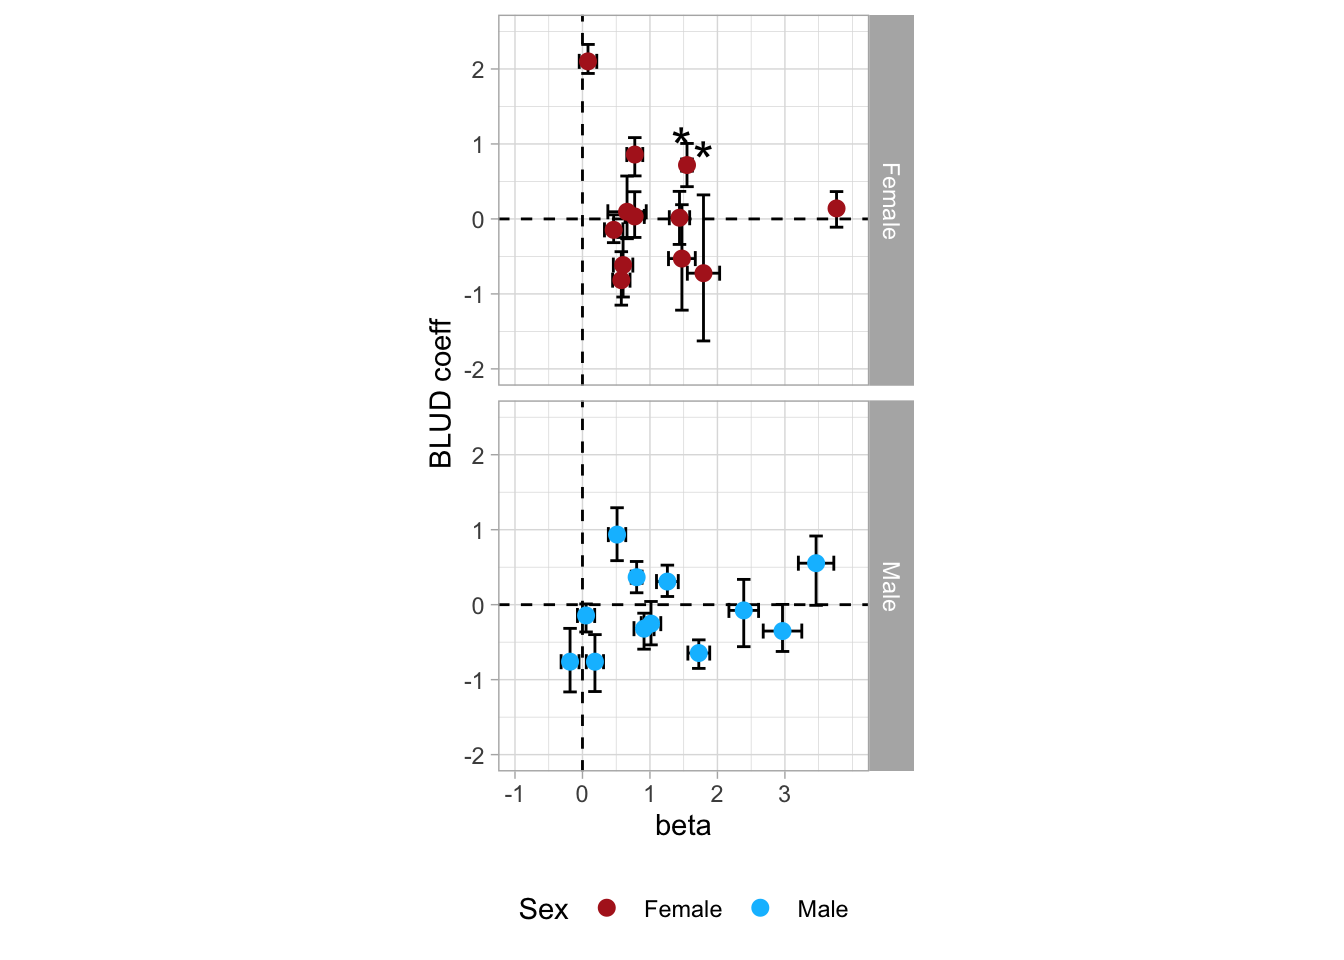
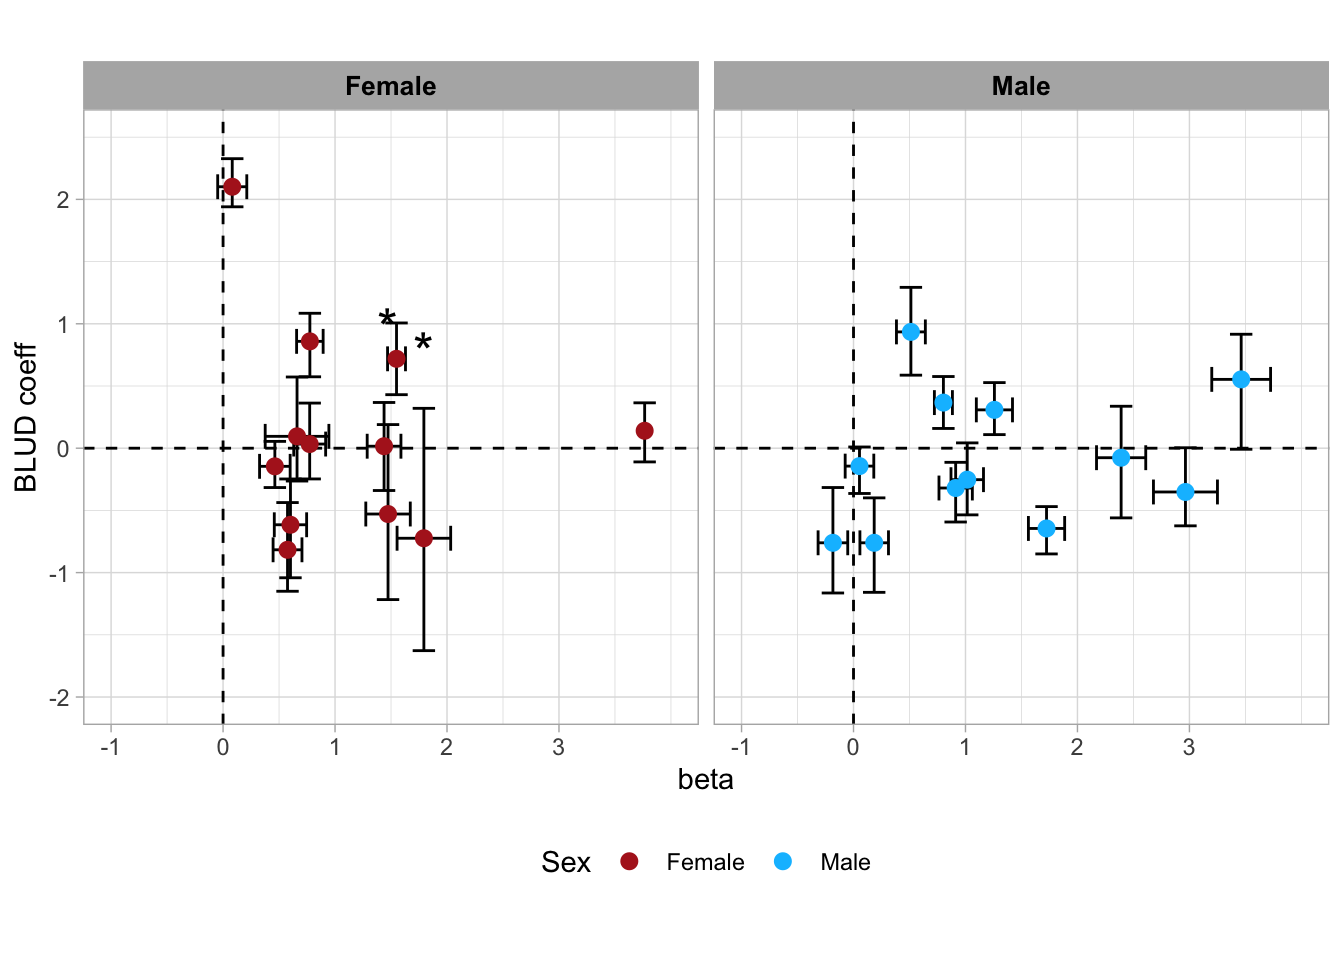
Build site.

diff --git a/docs/Coeffcients.html b/docs/Coeffcients.html
@@ -517,16 +517,16 @@ This reproducible <a href="http://rmarkdown.rstudio.com">R Markdown</a> analysis
 <div class="panel panel-default">
 <div class="panel-heading">
 <p class="panel-title">
-<a data-toggle="collapse" data-parent="#workflowr-checks" href="#strongRepositoryversionstrongahrefhttpsgithubcommcorbaldgrplifespanimmunitytreeebb4b09666f95642bb84c2f5f14cb4eae6bf253ftargetblankebb4b09a"> <span class="glyphicon glyphicon-ok text-success" aria-hidden="true"></span> <strong>Repository version:</strong> <a href="https://github.com/mcorbal/dgrp_lifespan_immunity/tree/ebb4b09666f95642bb84c2f5f14cb4eae6bf253f" target="_blank">ebb4b09</a> </a>
+<a data-toggle="collapse" data-parent="#workflowr-checks" href="#strongRepositoryversionstrongahrefhttpsgithubcommcorbaldgrplifespanimmunitytreeccc7e33447cfac020bcf3e2fc5403c5509033197targetblankccc7e33a"> <span class="glyphicon glyphicon-ok text-success" aria-hidden="true"></span> <strong>Repository version:</strong> <a href="https://github.com/mcorbal/dgrp_lifespan_immunity/tree/ccc7e33447cfac020bcf3e2fc5403c5509033197" target="_blank">ccc7e33</a> </a>
 </p>
 </div>
[2 lines of base64/hex data omitted]
 <div class="panel-body">
 <p>
 Great! You are using Git for version control. Tracking code development and connecting the code version to the results is critical for reproducibility.
 </p>
 <p>
-The results in this page were generated with repository version <a href="https://github.com/mcorbal/dgrp_lifespan_immunity/tree/ebb4b09666f95642bb84c2f5f14cb4eae6bf253f" target="_blank">ebb4b09</a>. See the <em>Past versions</em> tab to see a history of the changes made to the R Markdown and HTML files.
+The results in this page were generated with repository version <a href="https://github.com/mcorbal/dgrp_lifespan_immunity/tree/ccc7e33447cfac020bcf3e2fc5403c5509033197" target="_blank">ccc7e33</a>. See the <em>Past versions</em> tab to see a history of the changes made to the R Markdown and HTML files.
 </p>
 <p>
 Note that you need to be careful to ensure that all relevant files for the analysis have been committed to Git prior to generating the results (you can use <code>wflow_publish</code> or <code>wflow_git_commit</code>). workflowr only checks the R Markdown file, but you know if there are other scripts or data files that it depends on. Below is the status of the Git repository when the results were generated:
@@ -703,6 +703,40 @@ Message
 </tr>
 </thead>
 <tbody>
+<tr>
+<td>
+Rmd
+</td>
+<td>
+<a href="https://github.com/mcorbal/dgrp_lifespan_immunity/blob/ccc7e33447cfac020bcf3e2fc5403c5509033197/analysis/Coeffcients.Rmd" target="_blank">ccc7e33</a>
+</td>
+<td>
+mcorbal
+</td>
+<td>
+2021-08-10
+</td>
+<td>
+More updates on axes
+</td>
+</tr>
+<tr>
+<td>
+html
+</td>
+<td>
+<a href="https://rawcdn.githack.com/mcorbal/dgrp_lifespan_immunity/4a0a9aff34a4393289c5fb25c19b5f5780dac528/docs/Coeffcients.html" target="_blank">4a0a9af</a>
+</td>
+<td>
+mcorbal
+</td>
+<td>
+2021-08-10
+</td>
+<td>
+Build site.
+</td>
+</tr>
 <tr>
 <td>
 Rmd
@@ -1342,6 +1376,17 @@ Date
 <tbody>
 <tr>
 <td>
+<a href="https://github.com/mcorbal/dgrp_lifespan_immunity/blob/4a0a9aff34a4393289c5fb25c19b5f5780dac528/docs/figure/Coeffcients.Rmd/coxph analysis Sex-1.png" target="_blank">4a0a9af</a>
+</td>
+<td>
+mcorbal
+</td>
+<td>
+2021-08-10
+</td>
+</tr>
+<tr>
+<td>
 <a href="https://github.com/mcorbal/dgrp_lifespan_immunity/blob/130ff5e495fb5f5c040a67f96bfbe34bb8197533/docs/figure/Coeffcients.Rmd/coxph analysis Sex-1.png" target="_blank">130ff5e</a>
 </td>
 <td>
@@ -1430,6 +1475,17 @@ Date
 </tr>
 </thead>
 <tbody>
+<tr>
+<td>
+<a href="https://github.com/mcorbal/dgrp_lifespan_immunity/blob/4a0a9aff34a4393289c5fb25c19b5f5780dac528/docs/figure/Coeffcients.Rmd/coxph analysis Sex male_biased-1.png" target="_blank">4a0a9af</a>
+</td>
+<td>
+mcorbal
+</td>
+<td>
+2021-08-10
+</td>
+</tr>
 <tr>
 <td>
 <a href="https://github.com/mcorbal/dgrp_lifespan_immunity/blob/130ff5e495fb5f5c040a67f96bfbe34bb8197533/docs/figure/Coeffcients.Rmd/coxph analysis Sex male_biased-1.png" target="_blank">130ff5e</a>
@@ -1563,8 +1619,8 @@ pND &lt;-
    scale_y_continuous(&quot;BLUD coeff&quot;,
                       limits = c(-1.5,2.5),
                       breaks=c(seq(-1.5,1.5,by=1)))+
-   scale_x_continuous(limits = c(-1,4),
-                      breaks=c(seq(-1,4,by=1)))+
+   scale_x_continuous(limits = c(-1,1),
+                      breaks=c(seq(-1,1,by=1)))+
    facet_nested(~Lifespan_actual+Line)+
    geom_point(aes(colour = Sex), size =2.5) +
    scale_colour_manual(values = c(&quot;firebrick&quot;, &quot;deepskyblue1&quot;))+
@@ -1613,6 +1669,17 @@ Date
 <tbody>
 <tr>
 <td>
+<a href="https://github.com/mcorbal/dgrp_lifespan_immunity/blob/4a0a9aff34a4393289c5fb25c19b5f5780dac528/docs/figure/Coeffcients.Rmd/Cox analysis Age-1.png" target="_blank">4a0a9af</a>
+</td>
+<td>
+mcorbal
+</td>
+<td>
+2021-08-10
+</td>
+</tr>
+<tr>
+<td>
 <a href="https://github.com/mcorbal/dgrp_lifespan_immunity/blob/130ff5e495fb5f5c040a67f96bfbe34bb8197533/docs/figure/Coeffcients.Rmd/Cox analysis Age-1.png" target="_blank">130ff5e</a>
 </td>
 <td>
@@ -1628,16 +1695,15 @@ mcorbal
 </div>
 <pre class="r"><code>pMB &lt;- grid.arrange(
   ggplot(subset(Hazard_Blud, Lifespan_actual == &quot;Male_biased&quot; &amp;
-                   Line %in% c(&quot;732&quot;, &quot;821&quot;, &quot;897&quot;, &quot;907&quot;)), aes(beta, PLUD), scale=&quot;globalminmax&quot;) +
-  geom_vline(xintercept = 0, linetype = 2) +
+                   Line %in% c(&quot;732&quot;, &quot;821&quot;, &quot;59&quot;, &quot;386&quot;)), aes(beta, PLUD), scale=&quot;globalminmax&quot;) +
   geom_hline(yintercept = 0, linetype = 2) +
    geom_errorbarh(aes(xmin = beta-se, xmax = beta+se),height =0.2)+
    geom_errorbar(aes(ymax = PLUD_CI_sup, ymin = PLUD_CI_inf),width=0.2)+
    scale_y_continuous(&quot;BLUD coeff&quot;,
-                      limits = c(-2,2.5),
-                      breaks=c(seq(-2,2.5,by=1)))+
-   scale_x_continuous(limits = c(-1,4),
-                      breaks=c(seq(-1,3,by=1)))+
+                      limits = c(-1,1.5),
+                      breaks=c(seq(-1,1,by=1)))+
+   scale_x_continuous(limits = c(0,2),
+                      breaks=c(seq(0,2,by=1)))+
    facet_nested(~Lifespan_actual+Line)+
    geom_point(aes(colour = Sex), size =2.5) +
    scale_colour_manual(values = c(&quot;firebrick&quot;, &quot;deepskyblue1&quot;))+
@@ -1649,16 +1715,15 @@ mcorbal
          legend.position = &quot;none&quot;,
          legend.text = element_text(size = 12, face = &quot;bold&quot;)),
   ggplot(subset(Hazard_Blud, Lifespan_actual == &quot;Male_biased&quot; &amp;
-                   Line %in% c(&quot;59&quot;, &quot;386&quot;, &quot;517&quot;, &quot;730&quot;)), aes(beta, PLUD), scale=&quot;globalminmax&quot;) +
-  geom_vline(xintercept = 0, linetype = 2) +
+                   Line %in% c(&quot;897&quot;, &quot;907&quot;, &quot;517&quot;, &quot;730&quot;)), aes(beta, PLUD), scale=&quot;globalminmax&quot;) +
   geom_hline(yintercept = 0, linetype = 2) +
    geom_errorbarh(aes(xmin = beta-se, xmax = beta+se),height =0.2)+
    geom_errorbar(aes(ymax = PLUD_CI_sup, ymin = PLUD_CI_inf),width=0.2)+
    scale_y_continuous(&quot;BLUD coeff&quot;,
-                      limits = c(-2,2.5),
-                      breaks=c(seq(-2,2.5,by=1)))+
-   scale_x_continuous(limits = c(-1,4),
-                      breaks=c(seq(-1,3,by=1)))+
+                      limits = c(-2,1.5),
+                      breaks=c(seq(-2,1,by=1)))+
+   scale_x_continuous(limits = c(0,4.2),
+                      breaks=c(seq(0,4,by=1)))+
    facet_nested(~Lifespan_actual+Line)+
    geom_point(aes(colour = Sex), size =2.5) +
    scale_colour_manual(values = c(&quot;firebrick&quot;, &quot;deepskyblue1&quot;))+
@@ -1698,6 +1763,17 @@ Date
 </tr>
 </thead>
 <tbody>
+<tr>
+<td>
+<a href="https://github.com/mcorbal/dgrp_lifespan_immunity/blob/4a0a9aff34a4393289c5fb25c19b5f5780dac528/docs/figure/Coeffcients.Rmd/coxph analysis Age male_biased-1.png" target="_blank">4a0a9af</a>
+</td>
+<td>
+mcorbal
+</td>
+<td>
+2021-08-10
+</td>
+</tr>
 <tr>
 <td>
 <a href="https://github.com/mcorbal/dgrp_lifespan_immunity/blob/130ff5e495fb5f5c040a67f96bfbe34bb8197533/docs/figure/Coeffcients.Rmd/coxph analysis Age male_biased-1.png" target="_blank">130ff5e</a>
@@ -1756,6 +1832,17 @@ Date
 <tbody>
 <tr>
 <td>
+<a href="https://github.com/mcorbal/dgrp_lifespan_immunity/blob/4a0a9aff34a4393289c5fb25c19b5f5780dac528/docs/figure/Coeffcients.Rmd/Age beta and coeffiecients for all lines as replicates-1.png" target="_blank">4a0a9af</a>
+</td>
+<td>
+mcorbal
+</td>
+<td>
+2021-08-10
+</td>
+</tr>
+<tr>
+<td>
 <a href="https://github.com/mcorbal/dgrp_lifespan_immunity/blob/130ff5e495fb5f5c040a67f96bfbe34bb8197533/docs/figure/Coeffcients.Rmd/Age beta and coeffiecients for all lines as replicates-1.png" target="_blank">130ff5e</a>
 </td>
 <td>
@@ -1774,6 +1861,43 @@ mcorbal
 <p class="caption">
 Age effects on BLUD for all lines, ungrouped
 </p>
+</div>
+<p>
+<button type="button" class="btn btn-default btn-xs btn-workflowr btn-workflowr-fig" data-toggle="collapse" data-target="#fig-no-spaces-Age-beta-and-coeffiecients-for-all-lines-ungrouped-as-replicates-1">
+Past versions of “Age beta and coeffiecients for all lines ungrouped as replicates-1.png”
+</button>
+</p>
+<div id="fig-no-spaces-Age-beta-and-coeffiecients-for-all-lines-ungrouped-as-replicates-1" class="collapse">
+<div class="table-responsive">
+<table class="table table-condensed table-hover">
+<thead>
+<tr>
+<th>
+Version
+</th>
+<th>
+Author
+</th>
+<th>
+Date
+</th>
+</tr>
+</thead>
+<tbody>
+<tr>
+<td>
+<a href="https://github.com/mcorbal/dgrp_lifespan_immunity/blob/4a0a9aff34a4393289c5fb25c19b5f5780dac528/docs/figure/Coeffcients.Rmd/Age beta and coeffiecients for all lines ungrouped as replicates-1.png" target="_blank">4a0a9af</a>
+</td>
+<td>
+mcorbal
+</td>
+<td>
+2021-08-10
+</td>
+</tr>
+</tbody>
+</table>
+</div>
 </div>
 </div>
 <div id="sex-effects-with-all-lines-plotted-as-replicates" class="section level1">
@@ -1815,6 +1939,17 @@ Date
 <tbody>
 <tr>
 <td>
+<a href="https://github.com/mcorbal/dgrp_lifespan_immunity/blob/4a0a9aff34a4393289c5fb25c19b5f5780dac528/docs/figure/Coeffcients.Rmd/Sex beta and coeffiecients for all lines as replicates-1.png" target="_blank">4a0a9af</a>
+</td>
+<td>
+mcorbal
+</td>
+<td>
+2021-08-10
+</td>
+</tr>
+<tr>
+<td>
 <a href="https://github.com/mcorbal/dgrp_lifespan_immunity/blob/130ff5e495fb5f5c040a67f96bfbe34bb8197533/docs/figure/Coeffcients.Rmd/Sex beta and coeffiecients for all lines as replicates-1.png" target="_blank">130ff5e</a>
 </td>
 <td>
@@ -1833,6 +1968,43 @@ mcorbal
 <p class="caption">
 Sex effects on BLUD for all lines, ungrouped
 </p>
+</div>
+<p>
+<button type="button" class="btn btn-default btn-xs btn-workflowr btn-workflowr-fig" data-toggle="collapse" data-target="#fig-no-spaces-Sex-beta-and-coeffiecients-for-all-lines-ungrouped-as-replicates-1">
+Past versions of “Sex beta and coeffiecients for all lines ungrouped as replicates-1.png”
+</button>
+</p>
+<div id="fig-no-spaces-Sex-beta-and-coeffiecients-for-all-lines-ungrouped-as-replicates-1" class="collapse">
+<div class="table-responsive">
+<table class="table table-condensed table-hover">
+<thead>
+<tr>
+<th>
+Version
+</th>
+<th>
+Author
+</th>
+<th>
+Date
+</th>
+</tr>
+</thead>
+<tbody>
+<tr>
+<td>
+<a href="https://github.com/mcorbal/dgrp_lifespan_immunity/blob/4a0a9aff34a4393289c5fb25c19b5f5780dac528/docs/figure/Coeffcients.Rmd/Sex beta and coeffiecients for all lines ungrouped as replicates-1.png" target="_blank">4a0a9af</a>
+</td>
+<td>
+mcorbal
+</td>
+<td>
+2021-08-10
+</td>
+</tr>
+</tbody>
+</table>
+</div>
 </div>
 <br>
 <p>
